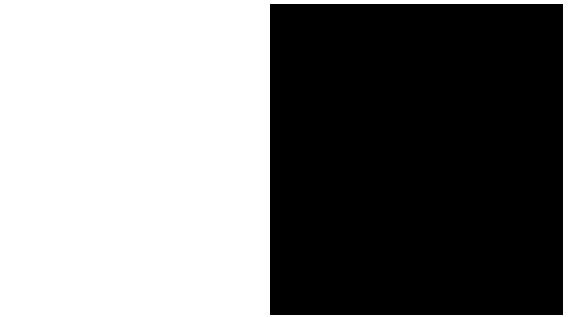
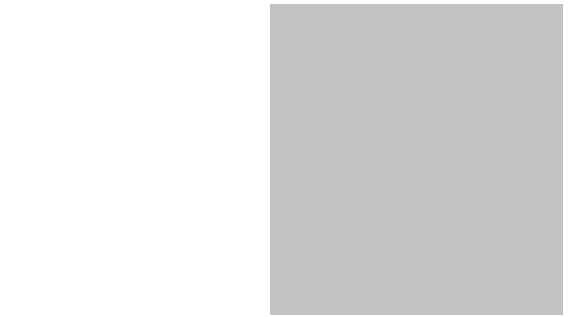
Tracking changes, Player image fix

diff --git a/scripts/touchcourse.js b/scripts/touchcourse.js
@@ -1,24 +1,34 @@
 $(document).ready(function() {
 
-	$('#player').css({left:375,top:275});
+//Observer to track player movement
+var target = document.getElementById('player');
+var observer = new MutationObserver(function(mutations) {
+ mutations.forEach(function(mutation) {
+   if(mutation.type == 'attributes');
+   	track();
+ });    
+});
+var config = { attributes: true, childList: true, characterData: true };
+observer.observe(target, config);
+
+
+	$('#player').css({left:0,top:0});
 	var img = document.getElementById('background');
 	var canvas = document.createElement('canvas');
 	canvas.width = img.width;
 	canvas.height = img.height;
+	
 	canvas.getContext('2d').drawImage(img, 0, 0, img.width, img.height);
 
-	 $("#player").on("DOMAttrModified", function(e){
-	 	$('#coordinates').text(($('#player').css('left')) + ' ' + ($('#player').css('top')));
+	 function track(e){
 	 	var left = ($('#player').css('left'));
-	 	var top = ($('#player').css('top'))
-	 	var pixelData = canvas.getContext('2d').getImageData(parseInt(left), parseInt(top), 1, 1).data;
-	 	//alert(pixelData);
+	 	var top = ($('#player').css('top'));
+	 	var pixelData = canvas.getContext('2d').getImageData(parseFloat(left), parseFloat(top), 1, 1).data;
 	 	console.log(pixelData[0] + ' ' + pixelData[1] + ' ' + pixelData[2]);
-		if(pixelData[0]==0 && pixelData[1]==0 && pixelData[2]==0) console.log("You lose!" + pixelData[0] + ' ' + pixelData[1] + ' ' + pixelData[2]);
-	 });
+		if(pixelData[0]==195 && pixelData[1]==195 && pixelData[2]==195) console.log("You lose!" + pixelData[0] + ' ' + pixelData[1] + ' ' + pixelData[2]);
+	 }
 
 	$('#course').click(function(e) { 
-		//$('#coordinates').text( e.pageY + ', ' + e.pageX ); 
 		$(function(){ 
 			$('#player').animate({ left:e.pageX,top:e.pageY}); 
 		});

diff --git a/touchcourse.html b/touchcourse.html
@@ -19,7 +19,7 @@
 
 <body id="">
 
-<a href="index.html">
+<!-- <a href="index.html">
   <div id="banner">
     <h1>Work in Progress</h1>
     <h2>Touch Course - A Mouse Obstacle Course!</h2>
@@ -31,11 +31,11 @@
   <p class="navbar-item"><a href="tictactoe.html">Tic-Tac-Toe</a></p>
   <p class="navbar-item"><a href="puns.html">Puns</a></p>
   <p class="navbar-item"><a id="navbar-item-main" href="touchcourse.html">Touch Course</a></p>
-</div>
+</div> -->
 
 <div id="course">
-  <p id="coordinates">0,0</p>
+  <!-- <p id="coordinates">0,0</p> -->
   <img id="background" src="img/TouchCourse/level1.png"/>
-  <img id="player" src="img/player.png"/>
+  <img id="player" src="img/Player.png"/>
 </div>
 </body>
